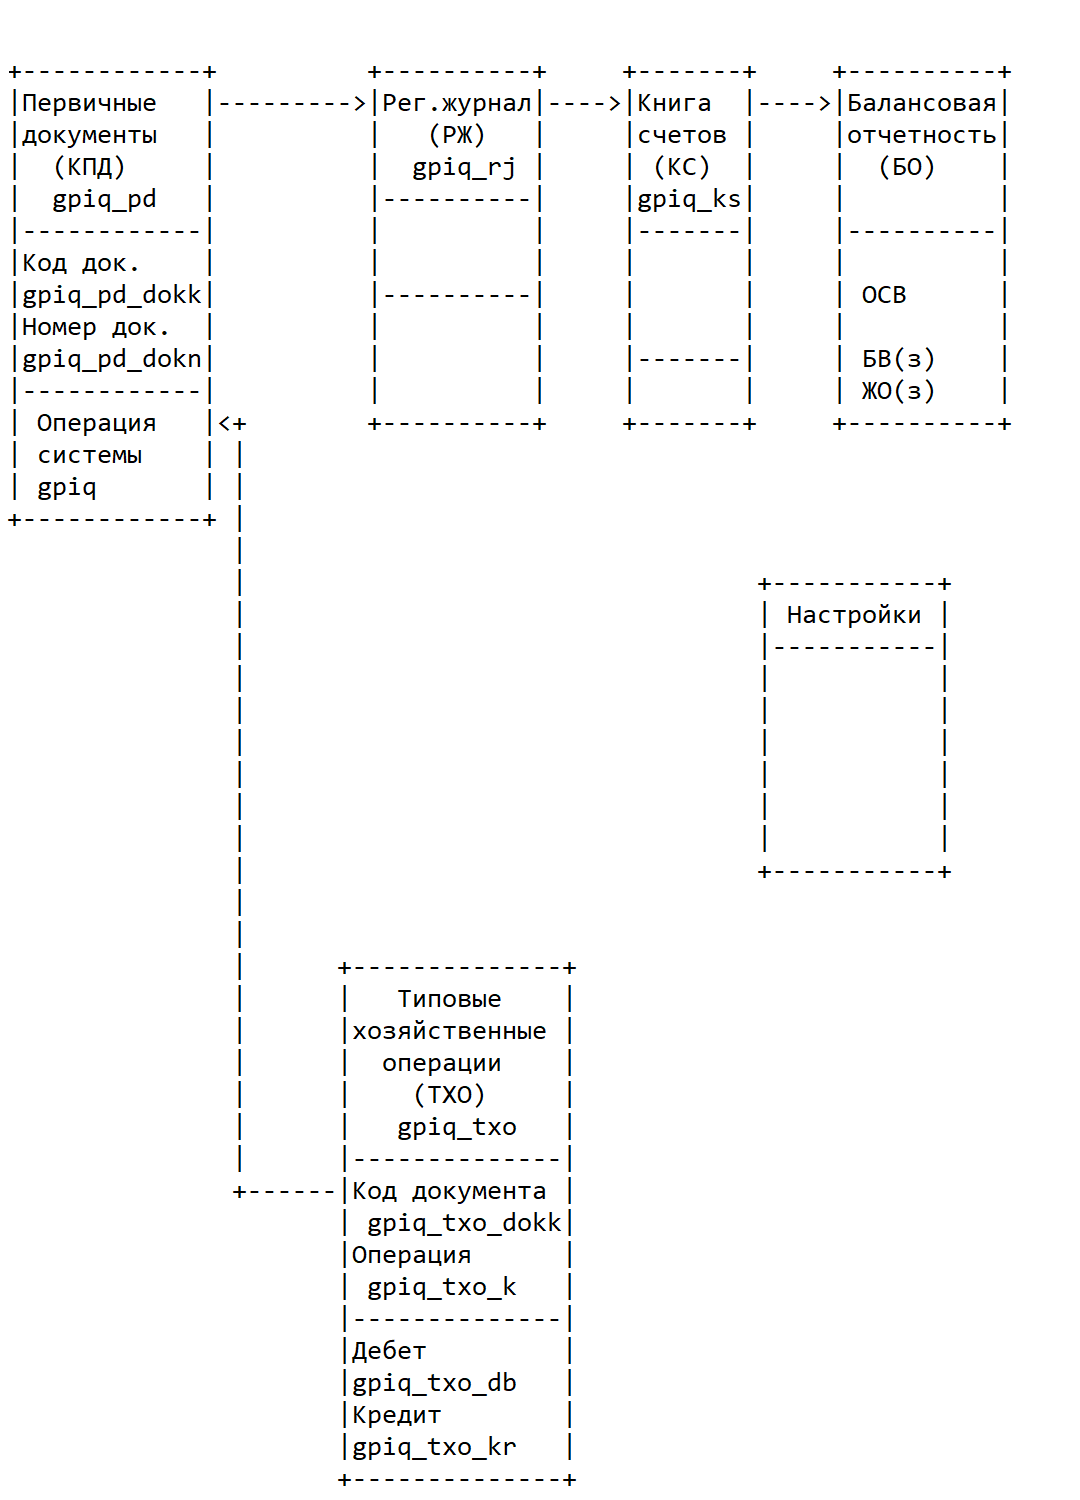
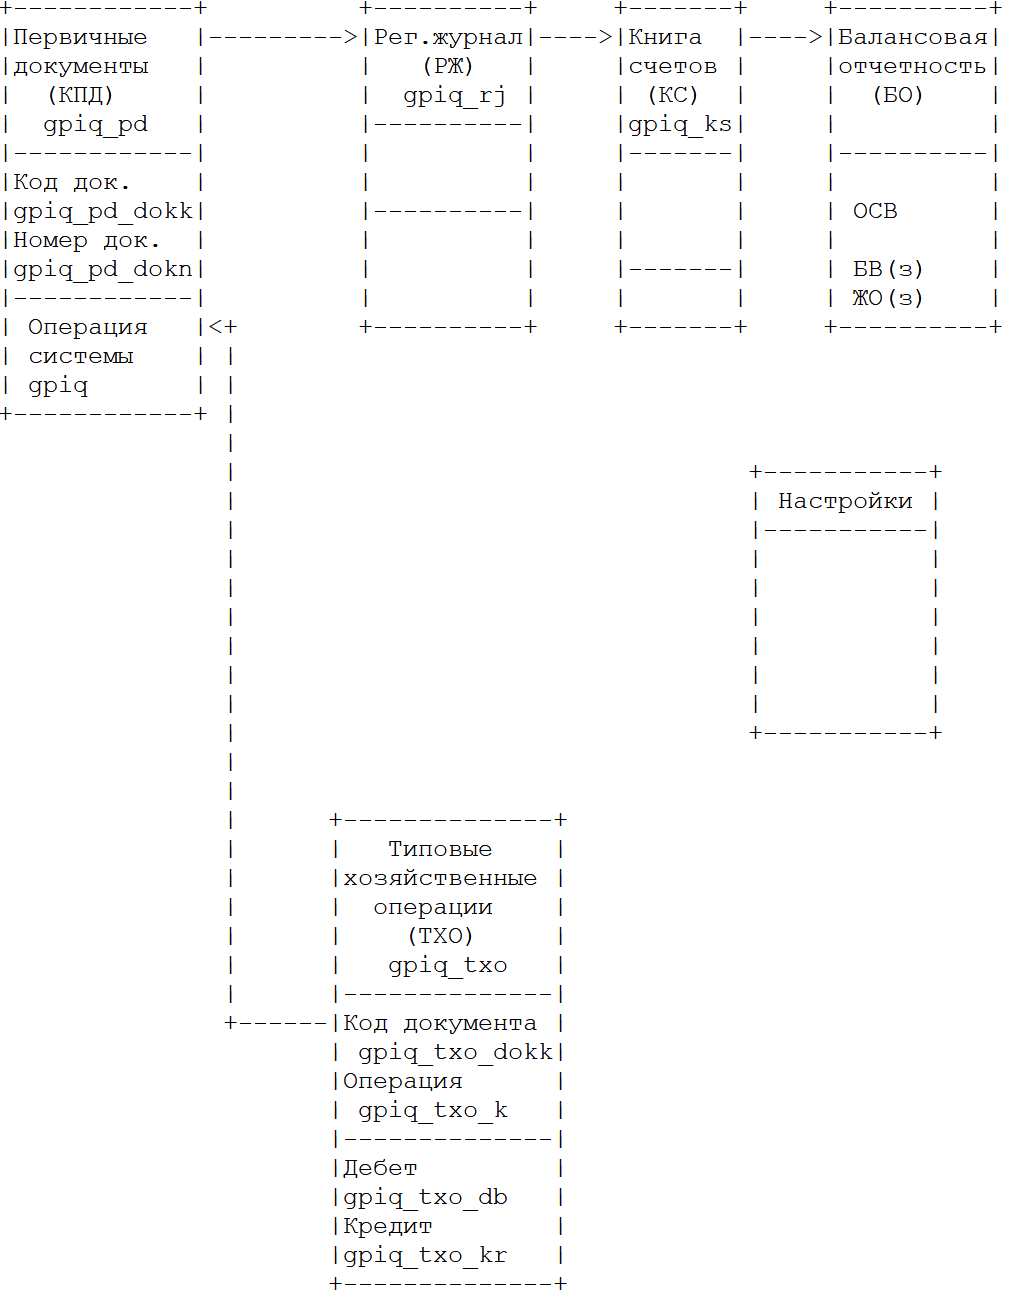
gpi_docs : Updated project gpiq_

diff --git a/gpi_docs/_tex/gpiq_part2.tex b/gpi_docs/_tex/gpiq_part2.tex
@@ -3,7 +3,7 @@
 
 \begin{figure}[!htb]
     \centering
-    \includegraphics[height=16cm]
+    \includegraphics[height=19cm, width=18cm]
         {_assets/gpiq_part2.png}
     \caption{Функциональная схема обработки данных}
 \end{figure}
@@ -29,56 +29,49 @@
     \centering
     \scriptsize
     \caption{Первичные документы \gpiFIO\/q\_pd}
-    \begin{tabular}{|l|l|l|} 
+    \begin{tabular}{|p{7cm}|p{7cm}|c|}
 
 \hline
-\textbf{Реквизит}                   &\textbf{Обозначение}   &\textbf{Тип и значность}   \\ \hline
-код документа                       &\gpiFIO\/q\_pd\_dokk         &varchar(4)                 \\ \hline
-номер документа                     &\gpiFIO\/q\_pd\_dokn         &int                        \\ \hline
-дата документа                      &\gpiFIO\/q\_pd\_dokd         &date                       \\ \hline
-операции                            &\gpiFIO\/q\_pd\_to           &varchar(10)                \\ \hline
-дебет счет *txo                     &\gpiFIO\/q\_pd\_db           &int                        \\ \hline
-дебет счет субсчет наименование *txo&\gpiFIO\/q\_pd\_dbn          &varchar(10)                \\ \hline
-кредит  *txo                        &\gpiFIO\/q\_pd\_kr           &int                        \\ \hline
-кредит название*txo                 &\gpiFIO\/q\_pd\_krn          &varchar(10)                \\ \hline
-сумма                               &\gpiFIO\/q\_pd\_rub          &int                        \\ \hline
+\multicolumn{1}{|c}{\textbf{Реквизит}}
+&\multicolumn{1}{|c}{\textbf{Обозначение}}  
+&\multicolumn{1}{|p{1.6cm}|}{\textbf{Тип и значность}} 
+\\ \hline
+
+код документа                       &\gpiFIO\/q\_pd\_dokk   &varchar(4)     \\ \hline
+номер документа                     &\gpiFIO\/q\_pd\_dokn   &int            \\ \hline
+дата документа                      &\gpiFIO\/q\_pd\_dokd   &date           \\ \hline
+операции                            &\gpiFIO\/q\_pd\_to     &varchar(10)    \\ \hline
+дебет счет *txo                     &\gpiFIO\/q\_pd\_db     &int            \\ \hline
+дебет счет субсчет наименование *txo&\gpiFIO\/q\_pd\_dbn    &varchar(10)    \\ \hline
+кредит *txo                         &\gpiFIO\/q\_pd\_kr     &int            \\ \hline
+кредит название *txo                &\gpiFIO\/q\_pd\_krn    &varchar(10)    \\ \hline
+сумма                               &\gpiFIO\/q\_pd\_rub    &int            \\ \hline
 
     \end{tabular}
 \end{table}
-
-% \begin{table}[h!p]
-%     \centering
-%     \scriptsize
-%     \caption{Виды аналитики gpia\_va}
-%     \begin{tabular}{|l|l|l|} 
-
-%                                                                                \hline
-% \textbf{Реквизит}       &\textbf{Обозначение}   &\textbf{Тип и значность}   \\ \hline
-% поле связи  	  =0    &gpia\_va\_0            &c1                         \\ \hline
-% вид аналитики           &gpia\_va\_k            &c3                         \\ \hline
-% название вида аналитики &gpia\_va\_n            &c15                        \\ \hline
-
-%     \end{tabular}
-% \end{table}
 
 \begin{table}[h!p]
     \centering
     \scriptsize
     \caption{Регистрационный журнал (РЖ) \gpiFIO\/q\_rj}
-    \begin{tabular}{|l|l|l|} 
+    \begin{tabular}{|p{7cm}|p{7cm}|c|}
 
-                                                                                       \hline
-\textbf{Реквизит}               &\textbf{Обозначение}   &\textbf{Тип и значность}   \\ \hline
-дата операции                   &\gpiFIO\/q\_rj\_data         &date                       \\ \hline
-код оправдательного документа   &\gpiFIO\/q\_rj\_dokk         &varchar(7)                 \\ \hline
-номер документа                 &\gpiFIO\/q\_rj\_dokn         &int                        \\ \hline
-дата документа                  &\gpiFIO\/q\_rj\_dokd         &date                       \\ \hline
-содержание операции             &\gpiFIO\/q\_rj\_to           &varchar(50)                \\ \hline
-дебет, счет                     &\gpiFIO\/q\_rj\_db           &int                        \\ \hline
-дебет, название                 &\gpiFIO\/q\_rj\_dbn          &varchar(10)                \\ \hline
-кредит, счет                    &\gpiFIO\/q\_rj\_kr           &int                        \\ \hline
-кредит название                 &\gpiFIO\/q\_rj\_krn          &varchar(10)                \\ \hline
-Сумма                           &\gpiFIO\/q\_rj\_rub          &int                        \\ \hline
+\hline
+\multicolumn{1}{|c}{\textbf{Реквизит}}
+&\multicolumn{1}{|c}{\textbf{Обозначение}}  
+&\multicolumn{1}{|p{1.6cm}|}{\textbf{Тип и значность}} 
+\\ \hline
+
+дата операции                       &\gpiFIO\/q\_rj\_data   &date           \\ \hline
+код оправдательного документа       &\gpiFIO\/q\_rj\_dokk   &varchar(7)     \\ \hline
+номер документа                     &\gpiFIO\/q\_rj\_dokn   &int            \\ \hline
+дата документа                      &\gpiFIO\/q\_rj\_dokd   &date           \\ \hline
+содержание операции                 &\gpiFIO\/q\_rj\_to     &varchar(50)    \\ \hline
+дебет, счет                         &\gpiFIO\/q\_rj\_db     &int            \\ \hline
+дебет, название                     &\gpiFIO\/q\_rj\_dbn    &varchar(10)    \\ \hline
+кредит, счет                        &\gpiFIO\/q\_rj\_kr     &int            \\ \hline
+кредит название                     &\gpiFIO\/q\_rj\_krn    &varchar(10)    \\ \hline
+Сумма                               &\gpiFIO\/q\_rj\_rub    &int            \\ \hline
 
     \end{tabular}
 \end{table}
@@ -87,111 +80,69 @@
     \centering
     \scriptsize
     \caption{Книга счетов(КС) \gpiFIO\/q\_ks}
-    \begin{tabular}{|l|l|l|} 
+    \begin{tabular}{|p{7cm}|p{7cm}|c|}
 
-                                                                                   \hline
-\textbf{Реквизит}               &\textbf{Обозначение}   &\textbf{Тип и значность}   \\ \hline
-дата операции                   &\gpiFIO\/q\_ks\_data         &date                       \\ \hline
-код оправдательного документа   &\gpiFIO\/q\_ks\_dokk         &varchar(4)                 \\ \hline
-номер документа                 &\gpiFIO\/q\_ks\_dokn         &int                        \\ \hline
-дата документа                  &\gpiFIO\/q\_ks\_dokd         &date                       \\ \hline
-операции                        &\gpiFIO\/q\_ks\_to           &varchar(50)                \\ \hline
-счет                            &\gpiFIO\/q\_ks\_s            &int                        \\ \hline
-счёт название                   &\gpiFIO\/q\_ks\_sn           &varchar(10)                \\ \hline
-кор. счёт                       &\gpiFIO\/q\_ks\_ks           &int                        \\ \hline
-кор. счет наименование          &\gpiFIO\/q\_ks\_ksn          &varchar(10)                \\ \hline
-сумма дб                        &\gpiFIO\/q\_ks\_rubdb        &int                        \\ \hline
-сумма кр                        &\gpiFIO\/q\_ks\_rubkr        &int                        \\ \hline
+\hline
+\multicolumn{1}{|c}{\textbf{Реквизит}}
+&\multicolumn{1}{|c}{\textbf{Обозначение}}  
+&\multicolumn{1}{|p{1.6cm}|}{\textbf{Тип и значность}} 
+\\ \hline
+
+дата операции                       &\gpiFIO\/q\_ks\_data   &date           \\ \hline
+код оправдательного документа       &\gpiFIO\/q\_ks\_dokk   &varchar(4)     \\ \hline
+номер документа                     &\gpiFIO\/q\_ks\_dokn   &int            \\ \hline
+дата документа                      &\gpiFIO\/q\_ks\_dokd   &date           \\ \hline
+операции                            &\gpiFIO\/q\_ks\_to     &varchar(50)    \\ \hline
+счет                                &\gpiFIO\/q\_ks\_s      &int            \\ \hline
+счёт название                       &\gpiFIO\/q\_ks\_sn     &varchar(10)    \\ \hline
+кор. счёт                           &\gpiFIO\/q\_ks\_ks     &int            \\ \hline
+кор. счет наименование              &\gpiFIO\/q\_ks\_ksn    &varchar(10)    \\ \hline
+сумма дб                            &\gpiFIO\/q\_ks\_rubdb  &int            \\ \hline
+сумма кр                            &\gpiFIO\/q\_ks\_rubkr  &int            \\ \hline
 
     \end{tabular}
 \end{table}
-
-% \begin{table}[h!p]
-%     \centering
-%     \scriptsize
-%     \caption{Определение первичных документов gpia\_opd}
-%     \begin{tabular}{|l|l|l|} 
-
-%                                                                                    \hline
-% \textbf{Реквизит}           &\textbf{Обозначение}   &\textbf{Тип и значность}   \\ \hline
-% поле связи       =0         &gpia\_opd\_0           &c1                         \\ \hline
-% код документа               &gpia\_opd\_k           &c3                         \\ \hline
-% наименование документа      &gpia\_opd\_n           &c10                        \\ \hline
-% вид аналитики 1  < ---  va  &gpia\_opd\_av1         &c3                         \\ \hline
-% тип аналитики 1    =д, к, x &gpia\_opd\_avt1        &c1                         \\ \hline
-% виды аналитики 2            &gpia\_opd\_av2         &c3                         \\ \hline
-% тип аналитики 2             &gpia\_opd\_avt2        &c1                         \\ \hline
-% вид аналитики 3             &gpia\_opd\_av3         &c3                         \\ \hline
-% тип аналитики 2             &gpia\_opd\_avt3        &c1                         \\ \hline
-
-%     \end{tabular}
-% \end{table}
 
 \begin{table}[h!p]
     \centering
     \scriptsize
     \caption{Типовые хозяйственные операции(ТХО) \gpiFIO\/q\_txo}
-    \begin{tabular}{|l|l|l|} 
+    \begin{tabular}{|p{7cm}|p{7cm}|c|}
 
-                                                                                           \hline
-\textbf{Реквизит}                   &\textbf{Обозначение}   &\textbf{Тип и значность}   \\ \hline
-код документа                       &\gpiFIO\/q\_txo\_dokk        &varchar(4)                 \\ \hline
-операции                            &\gpiFIO\/q\_txo\_k           &varchar(10)                \\ \hline
-дебет, счёт                         &\gpiFIO\/q\_txo\_db          &int                        \\ \hline
-дебет, название                     &\gpiFIO\/q\_txo\_dbn         &varchar(10)                \\ \hline
-кредит                              &\gpiFIO\/q\_txo\_kr          &int                        \\ \hline
-кредит, название                    &\gpiFIO\/q\_txo\_krn         &varchar(10)                \\ \hline
+\hline
+\multicolumn{1}{|c}{\textbf{Реквизит}}
+&\multicolumn{1}{|c}{\textbf{Обозначение}}  
+&\multicolumn{1}{|p{1.6cm}|}{\textbf{Тип и значность}} 
+\\ \hline
+
+код документа                       &\gpiFIO\/q\_txo\_dokk  &varchar(4)     \\ \hline
+операции                            &\gpiFIO\/q\_txo\_k     &varchar(10)    \\ \hline
+дебет, счёт                         &\gpiFIO\/q\_txo\_db    &int            \\ \hline
+дебет, название                     &\gpiFIO\/q\_txo\_dbn   &varchar(10)    \\ \hline
+кредит                              &\gpiFIO\/q\_txo\_kr    &int            \\ \hline
+кредит, название                    &\gpiFIO\/q\_txo\_krn   &varchar(10)    \\ \hline
 
     \end{tabular}
 \end{table}
-
-% \begin{table}[h!p]
-%     \centering
-%     \scriptsize
-%     \caption{План счетов(ПС) gpia\_ps}
-%     \begin{tabular}{|l|l|l|} 
-
-%                                                                                            \hline
-% \textbf{Реквизит}                   &\textbf{Обозначение}   &\textbf{Тип и значность}   \\ \hline
-% поле связи        =0                &gpia\_ps\_0            &c1                         \\ \hline
-% счет                                &gpia\_ps\_s            &n2                         \\ \hline
-% название счета                      &gpia\_ps\_n            &c10                        \\ \hline
-% тип счета          = а, п, x        &gpia\_ps\_typ          &c1                         \\ \hline
-% вид аналитики 1 из VA               &gpia\_ps\_av1          &c3                         \\ \hline
-% вид аналитики 2 из VA               &gpia\_ps\_av2          &c3                         \\ \hline
-
-%     \end{tabular}
-% \end{table}
-
-% \begin{table}[h!p]
-%     \centering
-%     \scriptsize
-%     \caption{Коды аналитического учёта(КАУ) gpia\_kau}
-%     \begin{tabular}{|l|l|l|} 
-
-%                                                                                \hline
-% \textbf{Реквизит}       &\textbf{Обозначение}   &\textbf{Тип и значность}   \\ \hline
-% поле связи          =0  &gpia\_kau\_0           &c1                         \\ \hline
-% вид аналитики           &gpia\_kau\_k           &c5                         \\ \hline
-% вид аналитики           &gpia\_kau\_n           &c15                        \\ \hline
-
-%     \end{tabular}
-% \end{table}
 
 \begin{table}[h!p]
     \centering
     \scriptsize
     \caption{Настройки системы \gpiFIO\/q\_nst}
-    \begin{tabular}{|l|l|l|} 
+    \begin{tabular}{|p{7cm}|p{7cm}|c|}
 
-                                                                               \hline
-\textbf{Реквизит}       &\textbf{Обозначение}   &\textbf{Тип и значность}   \\ \hline
-дата текущая            &\gpiFIO\/q\_nst\_datat       &date                       \\ \hline
-интервал с              &\gpiFIO\/q\_nst\_datas       &date                       \\ \hline
-интервал до             &\gpiFIO\/q\_nst\_datado      &date                       \\ \hline
-cчёт                    &\gpiFIO\/q\_nst\_s           &int                        \\ \hline
-название счёта          &\gpiFIO\/q\_nst\_sn          &varchar(10)                \\ \hline
-название фирмы          &\gpiFIO\/q\_nst\_firma       &varchar(10)                \\ \hline
+\hline
+\multicolumn{1}{|c}{\textbf{Реквизит}}
+&\multicolumn{1}{|c}{\textbf{Обозначение}}  
+&\multicolumn{1}{|p{1.6cm}|}{\textbf{Тип и значность}} 
+\\ \hline
+
+дата текущая                        &\gpiFIO\/q\_nst\_datat &date           \\ \hline
+интервал с                          &\gpiFIO\/q\_nst\_datas &date           \\ \hline
+интервал до                         &\gpiFIO\/q\_nst\_datado&date           \\ \hline
+cчёт                                &\gpiFIO\/q\_nst\_s     &int            \\ \hline
+название счёта                      &\gpiFIO\/q\_nst\_sn    &varchar(10)    \\ \hline
+название фирмы                      &\gpiFIO\/q\_nst\_firma &varchar(10)    \\ \hline
 
     \end{tabular}
 \end{table}
@@ -202,22 +153,19 @@ cчёт                    &\gpiFIO\/q\_nst\_s           &int                   
     \centering
     \scriptsize
     \caption{Описание работ}
-    \begin{tabular}{|p{8cm}|p{8cm}|} 
+    \begin{tabular}{|p{6cm}|p{11cm}|} 
 
 % = = = = = = = = = =
 
 \hline
-
-% = = = = = = = = = =
-
-\textbf{Группа работ}
-&
-\textbf{Работы}
+\multicolumn{1}{|c}{\textbf{Группа работ}}
+&\multicolumn{1}{|c|}{\textbf{Работы}}
 \\ \hline
 
 % = = = = = = = = = =
 
-Формирование и разноска первичных документов \par
+Формирование и разноска первичных \par
+документов \par
 \hspace{0pt} \par
 \textbf{\gpiFIO\/q\_Документы}
 &

diff --git a/gpi_docs/_tex/gpiq_part3.tex b/gpi_docs/_tex/gpiq_part3.tex
@@ -1,0 +1,10 @@
+\section{Эксплуатационное описание системы}
+
+\subsection{Функциональная схема обработки данных с использованием инструментальной среды}
+\subsection{Описание картотек с использованием инструментальной среды}
+\subsection{Скриншоты меню}
+\subsection{Скриншоты картотек}
+\subsection{Образцы первичных документов}
+\subsection{Образцы печатных форм}
+
+% \newpage

diff --git a/gpi_docs/gpiq_doc.tex b/gpi_docs/gpiq_doc.tex
@@ -50,4 +50,6 @@
 
     \input{_tex/gpiq_part1.tex}
     \input{_tex/gpiq_part2.tex}
+    \input{_tex/gpiq_part3.tex}
+    \input{_tex/gpiq_part4.tex}
 \end{document}

diff --git a/gpi_docs/_tex/gpiq_part4.tex b/gpi_docs/_tex/gpiq_part4.tex
@@ -1,0 +1,3 @@
+\section{Электронная версия разработанной системы}
+
+\newpage
